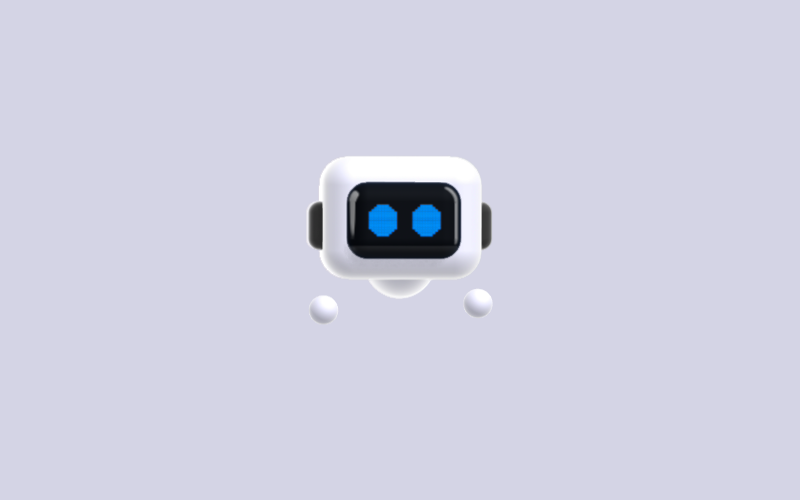
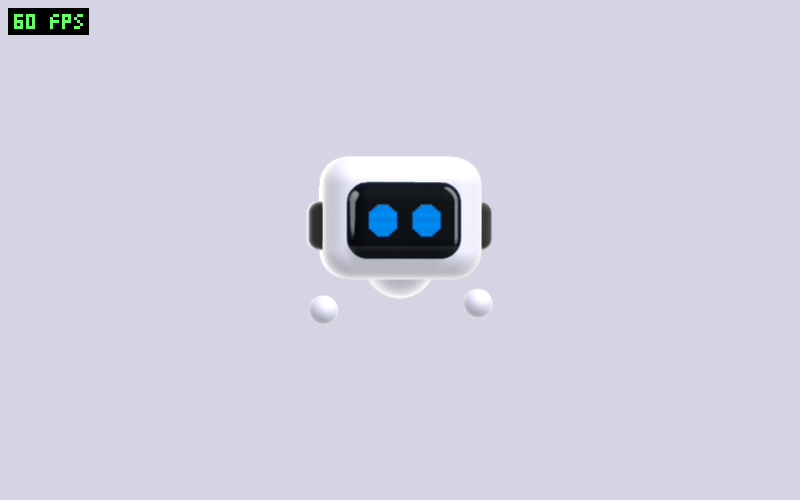
feat(examples): show the frames per second in js-spline

Changed region(s): [[0.0, 0.0, 0.125, 0.09]]

diff --git a/examples/js-spline/fps.js b/examples/js-spline/fps.js
@@ -1,0 +1,58 @@
+// The frames per second Spline draws, written in the window's top left corner over each frame it renders: digits of a 3 x 5 pixel font
+// drawn as rectangles (scissor and clear) in Spline's own WebGL context, right after its frame, so nothing else needs a shader or a texture.
+// The GL state the counter changes is put back as it was: three.js keeps a copy of it and would draw wrong otherwise.
+const FONT = {   // one string per glyph: 5 rows of 3 cells, '#' lit
+  '0': '###' + '#.#' + '#.#' + '#.#' + '###', '1': '.#.' + '##.' + '.#.' + '.#.' + '###', '2': '###' + '..#' + '###' + '#..' + '###',
+  '3': '###' + '..#' + '.##' + '..#' + '###', '4': '#.#' + '#.#' + '###' + '..#' + '..#', '5': '###' + '#..' + '###' + '..#' + '###',
+  '6': '###' + '#..' + '###' + '#.#' + '###', '7': '###' + '..#' + '.#.' + '.#.' + '.#.', '8': '###' + '#.#' + '###' + '#.#' + '###',
+  '9': '###' + '#.#' + '###' + '..#' + '###', 'f': '.##' + '#..' + '###' + '#..' + '#..', 'p': '###' + '#.#' + '###' + '#..' + '#..',
+  's': '.##' + '#..' + '.#.' + '..#' + '##.', ' ': '...' + '...' + '...' + '...' + '...',
+};
+const CELL = 3;        // a font cell, in CSS pixels
+const MARGIN = 8;      // from the window's corner
+const PAD = 6;         // inside the dark box
+const WINDOW_MS = 1000;
+
+export function showFps(canvas) {
+  const gl = canvas.getContext('webgl2');   // Spline's context: a canvas has one
+  if (!gl) return;
+  const times = [];
+  let label = '-- fps';
+  canvas.addEventListener('rendered', () => {
+    const now = performance.now();
+    times.push(now);
+    while (times.length > 0 && times[0] < now - WINDOW_MS) times.shift();
+    label = times.length + ' fps';
+    draw(gl, label, window.devicePixelRatio || 1);
+  });
+}
+
+function draw(gl, label, scale) {
+  if (gl.getParameter(gl.FRAMEBUFFER_BINDING) !== null) return;   // Spline's frame went to a texture: not on screen
+  const scissorOn = gl.isEnabled(gl.SCISSOR_TEST), box = gl.getParameter(gl.SCISSOR_BOX);
+  const color = gl.getParameter(gl.COLOR_CLEAR_VALUE), mask = gl.getParameter(gl.COLOR_WRITEMASK);
+  const cell = Math.max(1, Math.round(CELL * scale)), pad = Math.round(PAD * scale), margin = Math.round(MARGIN * scale);
+  const w = label.length * 4 * cell - cell + 2 * pad, h = 5 * cell + 2 * pad;
+  const top = gl.drawingBufferHeight - margin - h;   // GL counts rows from the bottom
+  gl.enable(gl.SCISSOR_TEST);
+  gl.colorMask(true, true, true, true);
+  fill(gl, margin, top, w, h, 0, 0, 0, 0.7);
+  for (let i = 0; i < label.length; i++) {
+    const glyph = FONT[label[i]] || FONT[' '];
+    for (let k = 0; k < 15; k++) {
+      if (glyph[k] !== '#') continue;
+      const x = margin + pad + (i * 4 + (k % 3)) * cell, y = top + pad + (4 - Math.floor(k / 3)) * cell;
+      fill(gl, x, y, cell, cell, 0.4, 1, 0.4, 1);
+    }
+  }
+  gl.clearColor(color[0], color[1], color[2], color[3]);
+  gl.colorMask(mask[0], mask[1], mask[2], mask[3]);
+  gl.scissor(box[0], box[1], box[2], box[3]);
+  if (!scissorOn) gl.disable(gl.SCISSOR_TEST);
+}
+
+function fill(gl, x, y, w, h, r, g, b, a) {
+  gl.scissor(x, y, w, h);
+  gl.clearColor(r, g, b, a);
+  gl.clear(gl.COLOR_BUFFER_BIT);
+}

diff --git a/examples/js-spline/main.js b/examples/js-spline/main.js
@@ -4,6 +4,9 @@
 //                                                    in this repository)
 //          zinc run examples/js-spline
 //          SPLINE_SCENE=path/to/scene.splinecode zinc run examples/js-spline     (another scene: File > Export > Code > scene.splinecode)
+//          examples/js-spline/pick.sh                                            (choose one of the scenes of assets/)
+import { showFps } from './fps.js';
+
 const home = __host_sysEnv('ZINC_HOME') || __host_sysEnv('HOME') + '/.zinc';
 const RUNTIME = home + '/cache/test-libs/spline-runtime-2.0.98/runtime.standalone.webgl.js';
 const SCENE = __host_sysEnv('SPLINE_SCENE') || 'assets/scene.splinecode';
@@ -43,6 +46,8 @@ if (canvas.width !== window.innerWidth || canvas.height !== window.innerHeight) 
   canvas.style.width = canvas.style.height = '100%';
   app._resize();
 }
+
+if (__host_sysEnv('SPLINE_FPS') !== '0') showFps(canvas);   // the frames per second, top left (SPLINE_FPS=0 hides them)
 
 // The program talks to the scene as a web page does: what the pointer is over and what was clicked, by name, on stdout.
 let hovered = '';

diff --git a/examples/js-spline/README.md b/examples/js-spline/README.md
@@ -9,7 +9,7 @@ tools/test-lib spline-runtime-2.0.98     # once: downloads Spline's runtime from
 build/zinc run examples/js-spline
 ```
 
-Move the pointer around the window: the robot looks at it (Spline's *Look At* event), and the program prints what the pointer is over (`mouseHover NORMAL`) and what is clicked.
+The frames per second Spline draws are shown in the top left corner (`SPLINE_FPS=0` hides them). Move the pointer around the window: the robot looks at it (Spline's *Look At* event), and the program prints what the pointer is over (`mouseHover NORMAL`) and what is clicked.
 
 Seven scenes come with it (`assets/scene.splinecode`, the robot, and `assets/scenes/`): `examples/js-spline/pick.sh` lists them and runs the one you choose, then lists them again when you close its window.
 
